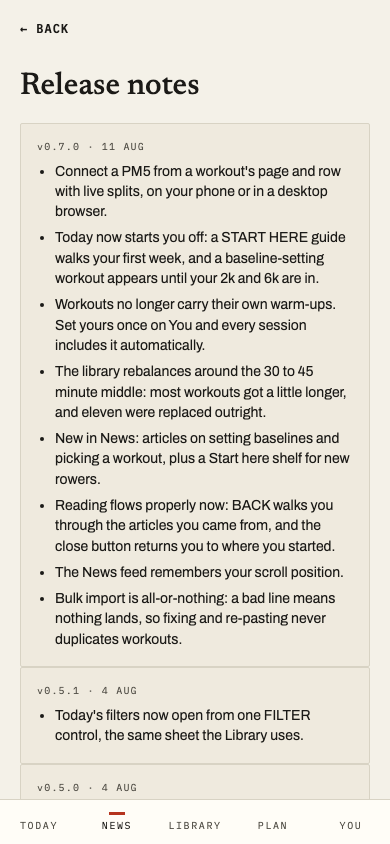
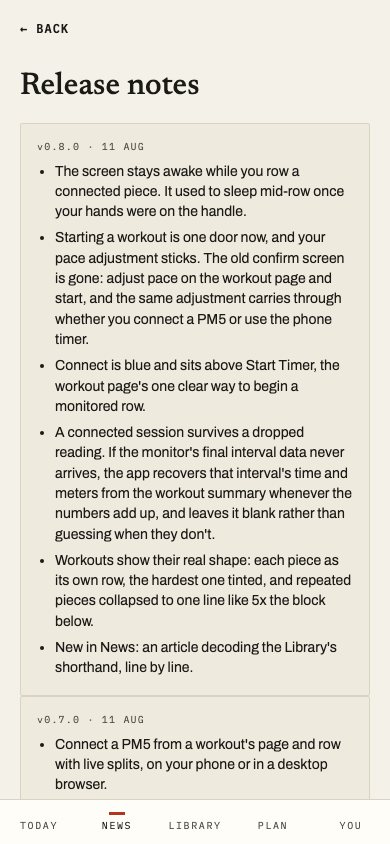
docs: v0.8.0's notes go in the app, and the draft retires having done its job
Six items in the app's own voice, led by the wake-lock fix James's
first tester row found. The draft's own closing instruction (confirm
the walk passed before shipping items 4-5) is satisfied: the erg row
read ALL 2 measured, one door to the countdown, screen lit throughout.
Version pins and releases.png follow the new entry.

Claude-Session: https://claude.ai/code/session_01UEXqdgDid4Qjd8D5uoRZ3H

Changed region(s): [[0.0923, 0.1848, 0.8923, 0.955]]

diff --git a/app/src/news/content/releaseNotes.ts b/app/src/news/content/releaseNotes.ts
@@ -5,6 +5,23 @@ import type { ReleaseNote } from "./types";
 // would notice, and internal-only releases are skipped.
 export const RELEASE_NOTES: ReleaseNote[] = [
   {
+    // The fast-follow wave plus everything that shipped after v0.7.0's own
+    // entry was written (#80/#81/#83). Item order is rower-priority, not
+    // merge order. The connected-screen items are all walk-confirmed on a
+    // real PM5 (2026-08-11): 2 of 2 intervals measured, one door to the
+    // countdown, the screen staying lit hands-off.
+    version: "v0.8.0",
+    date: "2026-08-11",
+    items: [
+      "The screen stays awake while you row a connected piece. It used to sleep mid-row once your hands were on the handle.",
+      "Starting a workout is one door now, and your pace adjustment sticks. The old confirm screen is gone: adjust pace on the workout page and start, and the same adjustment carries through whether you connect a PM5 or use the phone timer.",
+      "Connect is blue and sits above Start Timer, the workout page's one clear way to begin a monitored row.",
+      "A connected session survives a dropped reading. If the monitor's final interval data never arrives, the app recovers that interval's time and meters from the workout summary whenever the numbers add up, and leaves it blank rather than guessing when they don't.",
+      "Workouts show their real shape: each piece as its own row, the hardest one tinted, and repeated pieces collapsed to one line like 5x the block below.",
+      "New in News: an article decoding the Library's shorthand, line by line.",
+    ],
+  },
+  {
     // Covers everything since v0.5.1: v0.6.0 shipped without an entry, so
     // this one carries the 6I onboarding alongside the warmup setting and
     // the Phase CL fixes (James's ruling, 2026-08-09). The tag-time touch

diff --git a/app/e2e/news.spec.ts b/app/e2e/news.spec.ts
@@ -97,7 +97,7 @@ test("News at rest: 7 UNREAD, two pinned rows, five latest rows, WHAT'S NEW show
 
   await expect(page.getByRole("heading", { name: "WHAT'S NEW" })).toBeVisible();
   await expect(page.locator(".news-release-version").first()).toContainText(
-    "v0.7.0",
+    "v0.8.0",
   );
 });
 
@@ -171,11 +171,12 @@ test("/news/releases lists all four versions", async ({ page }) => {
     page.getByRole("heading", { name: "Release notes" }),
   ).toBeVisible();
   const versions = page.locator(".news-release-version");
-  await expect(versions).toHaveCount(4);
-  await expect(versions.nth(0)).toContainText("v0.7.0");
-  await expect(versions.nth(1)).toContainText("v0.5.1");
-  await expect(versions.nth(2)).toContainText("v0.5.0");
-  await expect(versions.nth(3)).toContainText("v0.4.0");
+  await expect(versions).toHaveCount(5);
+  await expect(versions.nth(0)).toContainText("v0.8.0");
+  await expect(versions.nth(1)).toContainText("v0.7.0");
+  await expect(versions.nth(2)).toContainText("v0.5.1");
+  await expect(versions.nth(3)).toContainText("v0.5.0");
+  await expect(versions.nth(4)).toContainText("v0.4.0");
 });
 
 test("item 1 / round 4: opening an article from a scrolled News feed lands the reader at the top of its OWN scroller, and ← BACK now restores News's own scroll position (CL item: News scroll memory)", async ({

diff --git a/app/e2e/screenshots.spec.ts b/app/e2e/screenshots.spec.ts
@@ -889,7 +889,7 @@ test("releases", async ({ page }) => {
     page.getByRole("heading", { name: "Release notes" }),
   ).toBeVisible();
   await expect(page.locator(".news-release-version").first()).toContainText(
-    "v0.7.0",
+    "v0.8.0",
   );
   await page.screenshot({
     path: path.join(SCREENSHOTS_DIR, "releases.png"),
